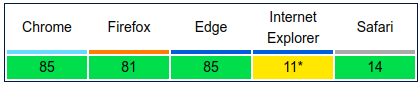
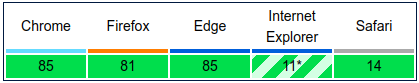
update matrix

diff --git a/data/inkjet-matrix.html b/data/inkjet-matrix.html
@@ -21,7 +21,7 @@
         <td class="chrome result bg-green">85</td>
         <td class="firefox result bg-green">81</td>
         <td class="edge result bg-green">85</td>
-        <td class="ie result bg-yellow">11*</td>
+        <td class="ie result almost bg-yellow">11*</td>
         <td class="safari result bg-green">14</td>
     </tr>
 </table>

diff --git a/data/inkjet-matrix.css b/data/inkjet-matrix.css
@@ -18,3 +18,13 @@ table.matrix td.header {
   border-bottom-width: 4px;
   border-bottom-style: solid;
 }
+
+.almost {
+  background: repeating-linear-gradient(
+    -45deg,
+    #2ECC40,
+    #2ECC40 10px,
+    #deffe2 10px,
+    #deffe2 20px
+  );
+}
